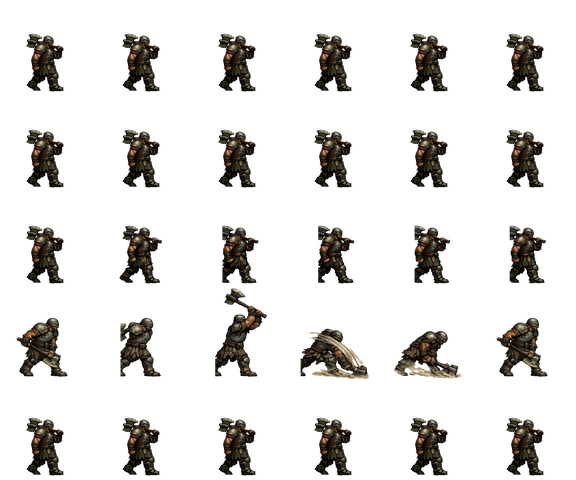
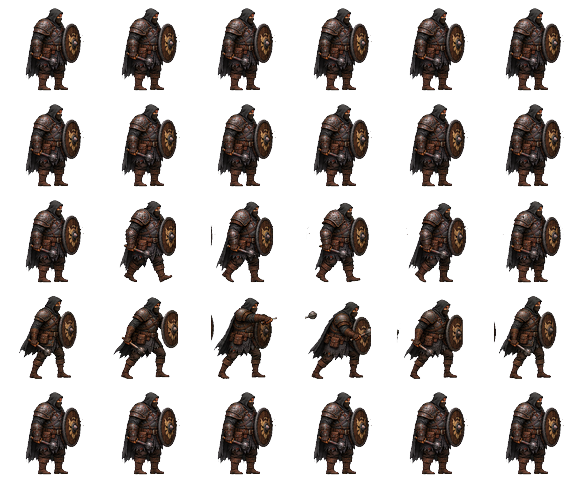
盗賊重装兵を codex1 専用スプライトへ差替 (盗賊団の最後の1体)
旧素材は codex1 由来ではなく ChatGPT の 3 頭身 chibi で、実測 3 欠陥を抱えていた:

1. char_ratio 0.604 のため、displaySize 88 = 一族最大の当たり判定なのに
   画面上の体高 53.2px = 一族最小だった (bandit 59.2 / orc 65.8 より小さい)
   -> 0.86 へ戻して 70.1px。orc 63.2 を超え minotaur 76.4 に次ぐ位置になった
2. attack 行の col0 と col5 が画素完全一致 = 重複コマで動きが 5 コマ分しかなかった
   -> walk/attack とも重複ゼロ
3. 接地線が walk 91 に対し attack 88〜90 でばらつき攻撃の瞬間に最大 3px 浮き、
   attack col2 は大槌を頭上へ振りかぶって bbox 上端が y=0 に到達し切れていた
   -> ズレ 1px、top_min=8 でクリップ無し

素材は 2026-08-15 に codex1 へ新規発注して納品 (tools/codex_request.py の初の本番投下。
依頼文 codex1/requests/2026-08-15_bandit-heavy.md)。大盾 + 片手メイスで、黒フード・
黒覆面・裾の裂けた黒マント・茶革・茶ブーツを enemy-thief と共有する。

attack_scale=auto が必須。納品素材は walk/attack のシート間に一様なズーム差があり、
素のままだと skill 側の check_pose_alignment.py が exit 1 で落ちる (基準コマ差 -4.92% /
median 差 -5.94% / 沈み込み 0.868)。attack だけ接地線を軸に一様 x1.0575 したコピーを
作って再判定したところ完全 PASS (exit 0) になったので、ポーズの描き間違いではなく
シート間ズーム差と確定し、描き直しではなく auto で打ち消す方針を採った。
パック時の auto は 1.0632 を算出し check_attack_scale は +1.31% OK。

納品時点で codex1 側は検証を 1 本も回せていない (実行環境に Python が無く uv も
入らなかったと自己申告) ため、validate_sprite_outputs.py / check_pose_alignment.py /
依頼文の検算コードはすべて受け取り側で代行実行した。--all --out-dir での事前焼きにより
既存 28 枚がバイト不変であることも実測済み。banditHeavy の CLIP WARNING は 0 件。

diff --git a/tavern.html b/tavern.html
@@ -1984,10 +1984,10 @@
     <div id="changelogBox">
       <div class="changelogHeader">📜 更新情報</div>
       <ul class="changelogList">
+        <li><b>盗賊重装兵の姿を一新</b> — 大盾と鉄メイスで身を固めた、盗賊団で一番重い前衛になった。見た目の大きさも風格に見合うよう調整。</li>
         <li><b>ドラゴンの巣の壁を玄武岩の柱状節理に作り替え</b> — 白っぽい幕が外れ、六角柱の岩肌と割れ目の熾火が見えるようになった。これで全6ステージの壁が刷新完了。</li>
         <li><b>神殿の壁を黒ずんだ大理石に作り替え</b> — 白っぽい幕が外れ、骨と燃え尽きた蝋燭を納めた壁龕が並ぶ黒大理石になった。目地には色褪せた金の象嵌が走る。</li>
         <li><b>砦の壁を崩れかけた切石に作り替え</b> — 白っぽい幕が外れ、矢傷や煤で汚れた砂色の石積みが見えるようになった。</li>
-        <li><b>森の壁を丸太の柵に作り替え</b> — 白っぽい幕が掛かっていた壁が、蔓縄で締めた丸太を並べた盗賊団の砦の柵になった。壁の上には丸太の切り口が覗く。</li>
       </ul>
     </div>
     <script>

diff --git a/index.html b/index.html
@@ -7862,7 +7862,7 @@
         name: "盗賊重装兵",
         flavor: "略奪した鎧を纏う前衛",
         badge: "🛡",
-        sprite: "assets/banditHeavy_anim.png?v=2",
+        sprite: "assets/banditHeavy_anim.png?v=3",
         sheetW: 576, sheetH: 480,
         frameW: 96, frameH: 96, cols: 6, rowOffset: 0,
         displaySize: 88,
